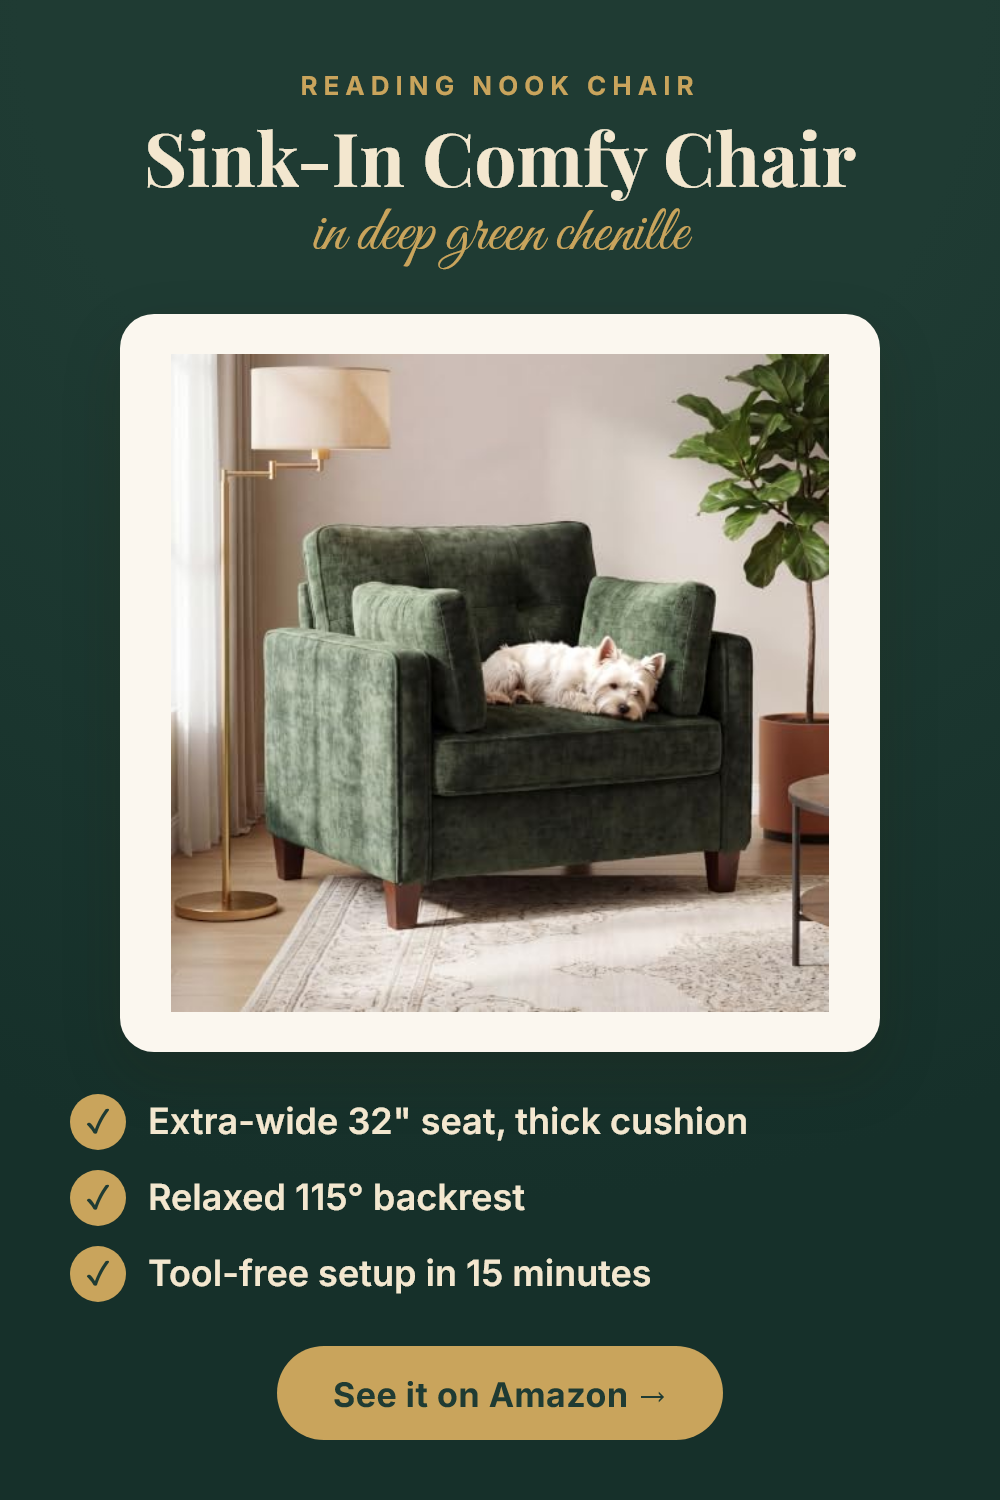
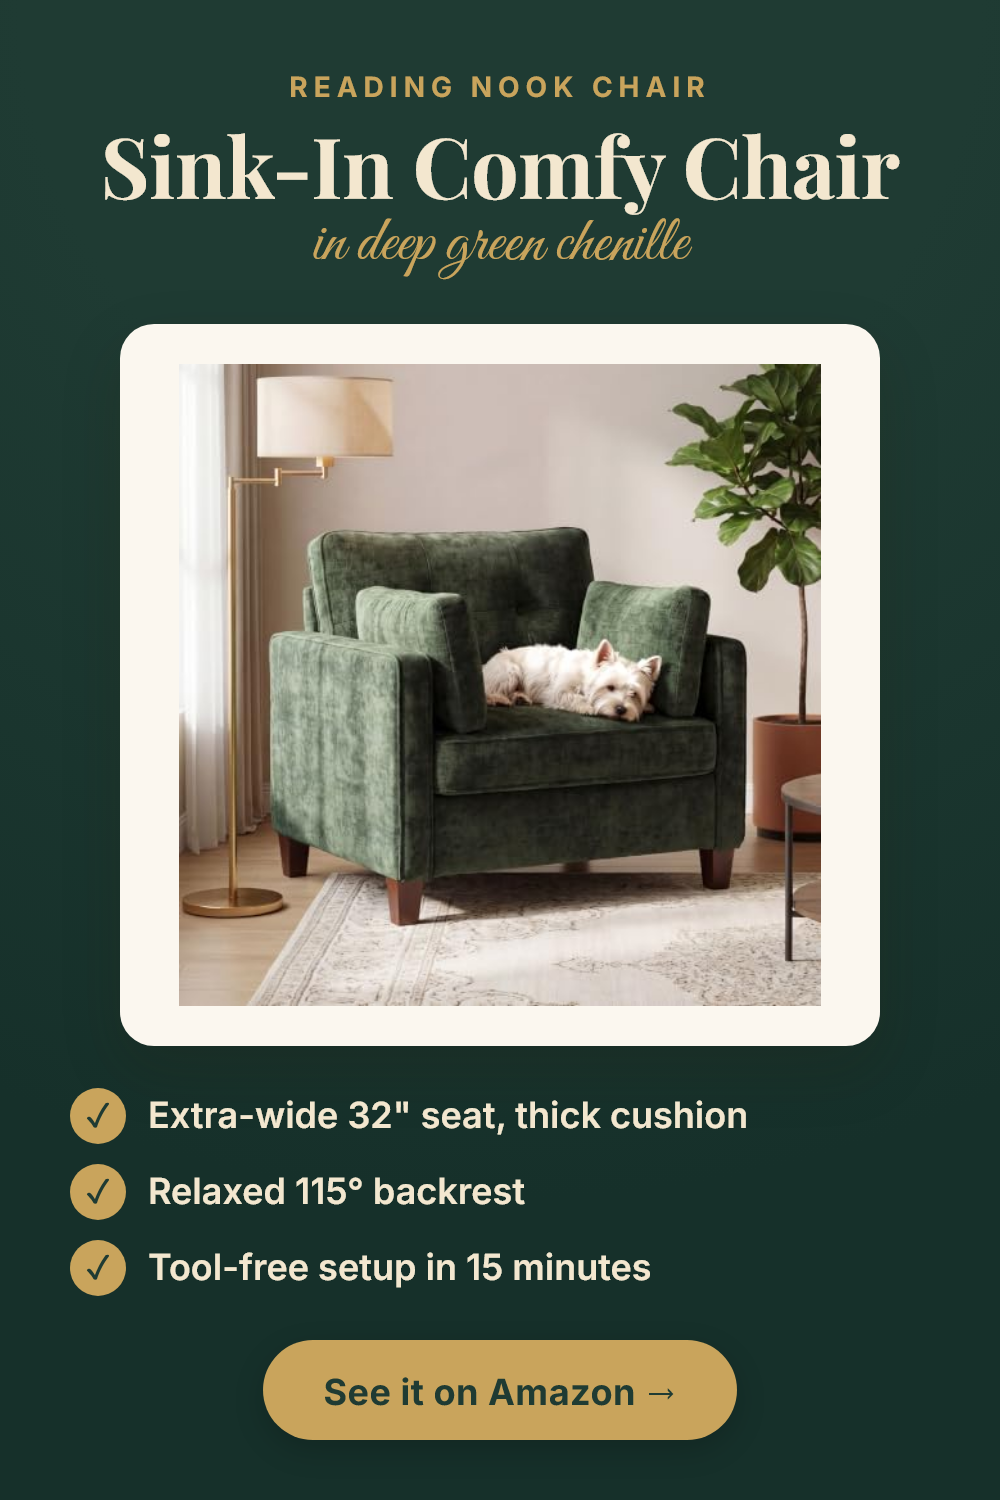
Batch 1 v2: numbered gift guides, full-bleed Amazon lifestyle heroes, bolder type

diff --git a/templates/pin.css b/templates/pin.css
@@ -12,6 +12,12 @@ body { font-family: "Inter", "Segoe UI", sans-serif; color: var(--ink); backgrou
 .funhaus { --bg:#fbf3e6; --bg2:#f3e1c7; --ink:#2b2b2b; --accent:#d8452f; --card:#ffffff; --on-accent:#fff; }
 .blush   { --bg:#f6e9e6; --bg2:#ecd3ce; --ink:#5b3a3a; --accent:#b97a74; --card:#fffaf9; --on-accent:#fff; }
 .funhaus .bgfill { background: repeating-linear-gradient(90deg, #fbf3e6 0 60px, #f6dcd3 60px 120px); }
+/* rich palettes (v2) */
+.holiday { --bg:#5c1424; --bg2:#3a0a15; --ink:#f8ead7; --accent:#e0b874; --card:#fffaf3; --on-accent:#3a0a15; }
+.noir    { --bg:#1b1715; --bg2:#0b0908; --ink:#f4e9d8; --accent:#d6ad6a; --card:#fbf6ee; --on-accent:#1b1715; }
+.cream   { --bg:#f4ece1; --bg2:#e6d6c1; --ink:#3d2a1e; --accent:#9c6b3f; --card:#fffdf9; --on-accent:#fff; }
+.holiday .bgfill, .noir .bgfill { background: radial-gradient(90% 60% at 50% 30%, var(--bg) 0%, var(--bg2) 100%); }
+.holiday .bgfill::after, .noir .bgfill::after { content:""; position:absolute; inset:22px; border:2px solid var(--accent); opacity:.55; border-radius:6px; }
 
 .bgfill { position: absolute; inset: 0; background: radial-gradient(120% 80% at 50% 0%, var(--bg) 40%, var(--bg2) 100%); z-index: 0; }
 .scene { position: absolute; inset: 0; background-size: cover; background-position: center; z-index: 0; }
@@ -62,5 +68,32 @@ body { font-family: "Inter", "Segoe UI", sans-serif; color: var(--ink); backgrou
 .collage .grid.n6 { grid-template-columns: 1fr 1fr 1fr; }
 .collage .card { padding: 24px; min-height: 0; }
 .collage .cta { margin-top: 0; }
+
+/* bolder headlines everywhere (v2) */
+.headline { font-size: 84px; line-height: 1.0; letter-spacing: -0.5px; }
+.kicker { font-size: 28px; }
+.cta { font-size: 36px; padding: 26px 60px; box-shadow: 0 10px 30px rgba(0,0,0,.18); }
+
+/* numbered gift guide (v2) */
+.guide .wrap { padding: 64px 60px 54px; }
+.guide .headline { font-size: 96px; margin-top: 6px; }
+.guide .script { font-size: 72px; margin-top: -6px; }
+.guide .sub { text-align: center; font-size: 24px; letter-spacing: 5px; text-transform: uppercase; opacity: .85; margin-top: 4px; }
+.gg { display: grid; gap: 22px; margin: 30px 0 30px; flex: 1 1 auto; min-height: 0; }
+.gg.c3 { grid-template-columns: repeat(3, 1fr); }
+.gg.c2s { grid-template-columns: repeat(2, 318px); grid-auto-rows: 318px; justify-content: center; align-content: center; gap: 28px 34px; }
+.gg .tile { position: relative; background: var(--card); border-radius: 22px; padding: 16px; min-height: 0; display: flex; align-items: center; justify-content: center; box-shadow: 0 14px 34px rgba(0,0,0,.25); }
+.gg .tile img { width: 100%; height: 100%; object-fit: contain; display: block; }
+.gg .no { position: absolute; top: -12px; left: -12px; width: 54px; height: 54px; border-radius: 50%; background: var(--accent); color: var(--on-accent);
+  font: 700 26px "Playfair Display", serif; display: flex; align-items: center; justify-content: center; box-shadow: 0 4px 12px rgba(0,0,0,.3); }
+.guide .cta { margin-top: 0; }
+
+/* full-bleed lifestyle hero (v2): Amazon photo full width, never cropped or covered */
+.hero .wrap { padding: 60px 0 56px; }
+.hero .top { padding: 0 60px; }
+.hero .photo { flex: 1 1 auto; min-height: 0; margin: 34px 0; display: flex; align-items: center; justify-content: center; }
+.hero .photo img { width: 100%; height: 100%; object-fit: contain; display: block; }
+.hero .cta { margin-top: 0; }
+.hero .script { font-size: 60px; }
 
 .footer { text-align: center; font-size: 22px; opacity: .65; margin-top: 18px; letter-spacing: 1px; }
